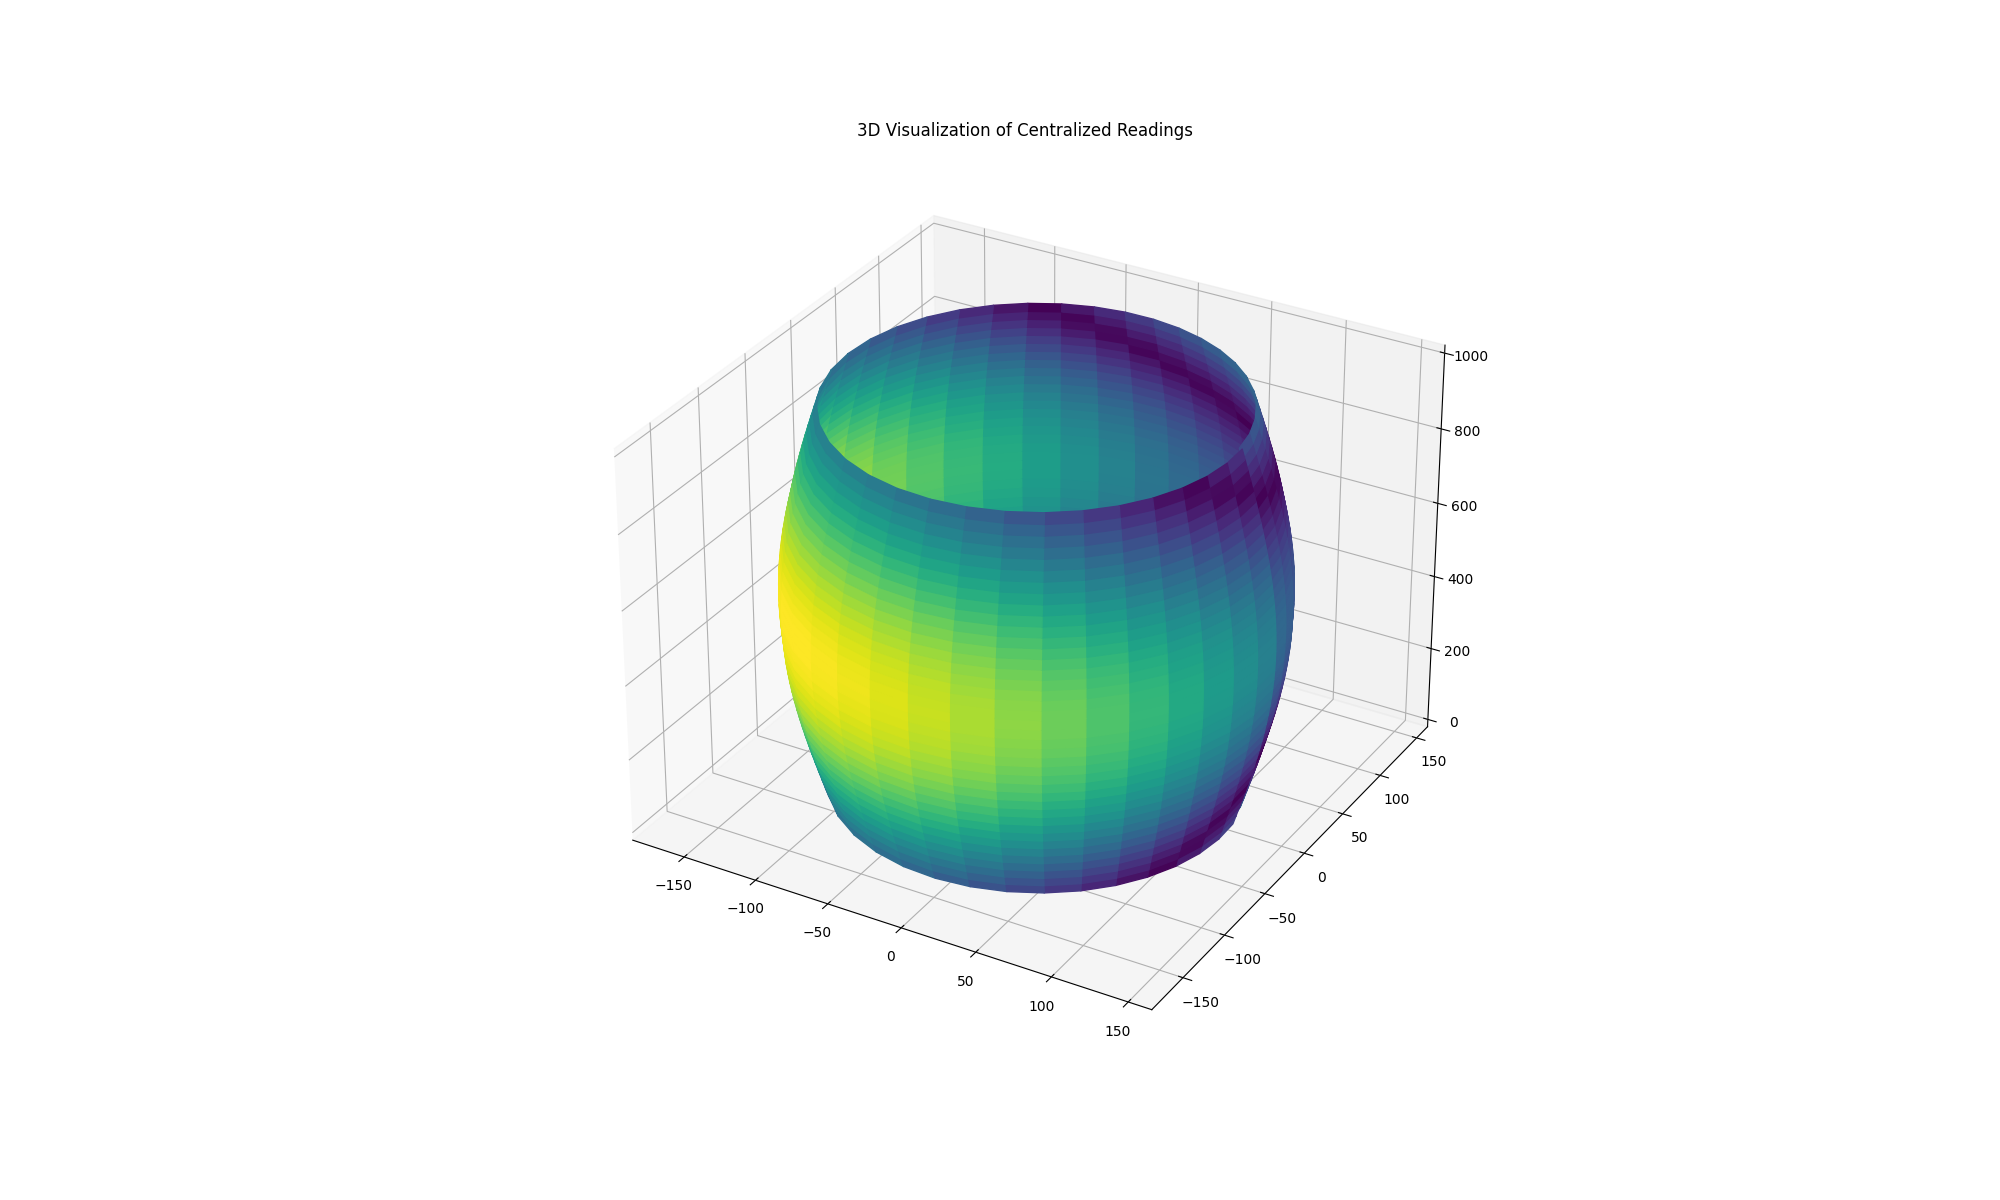
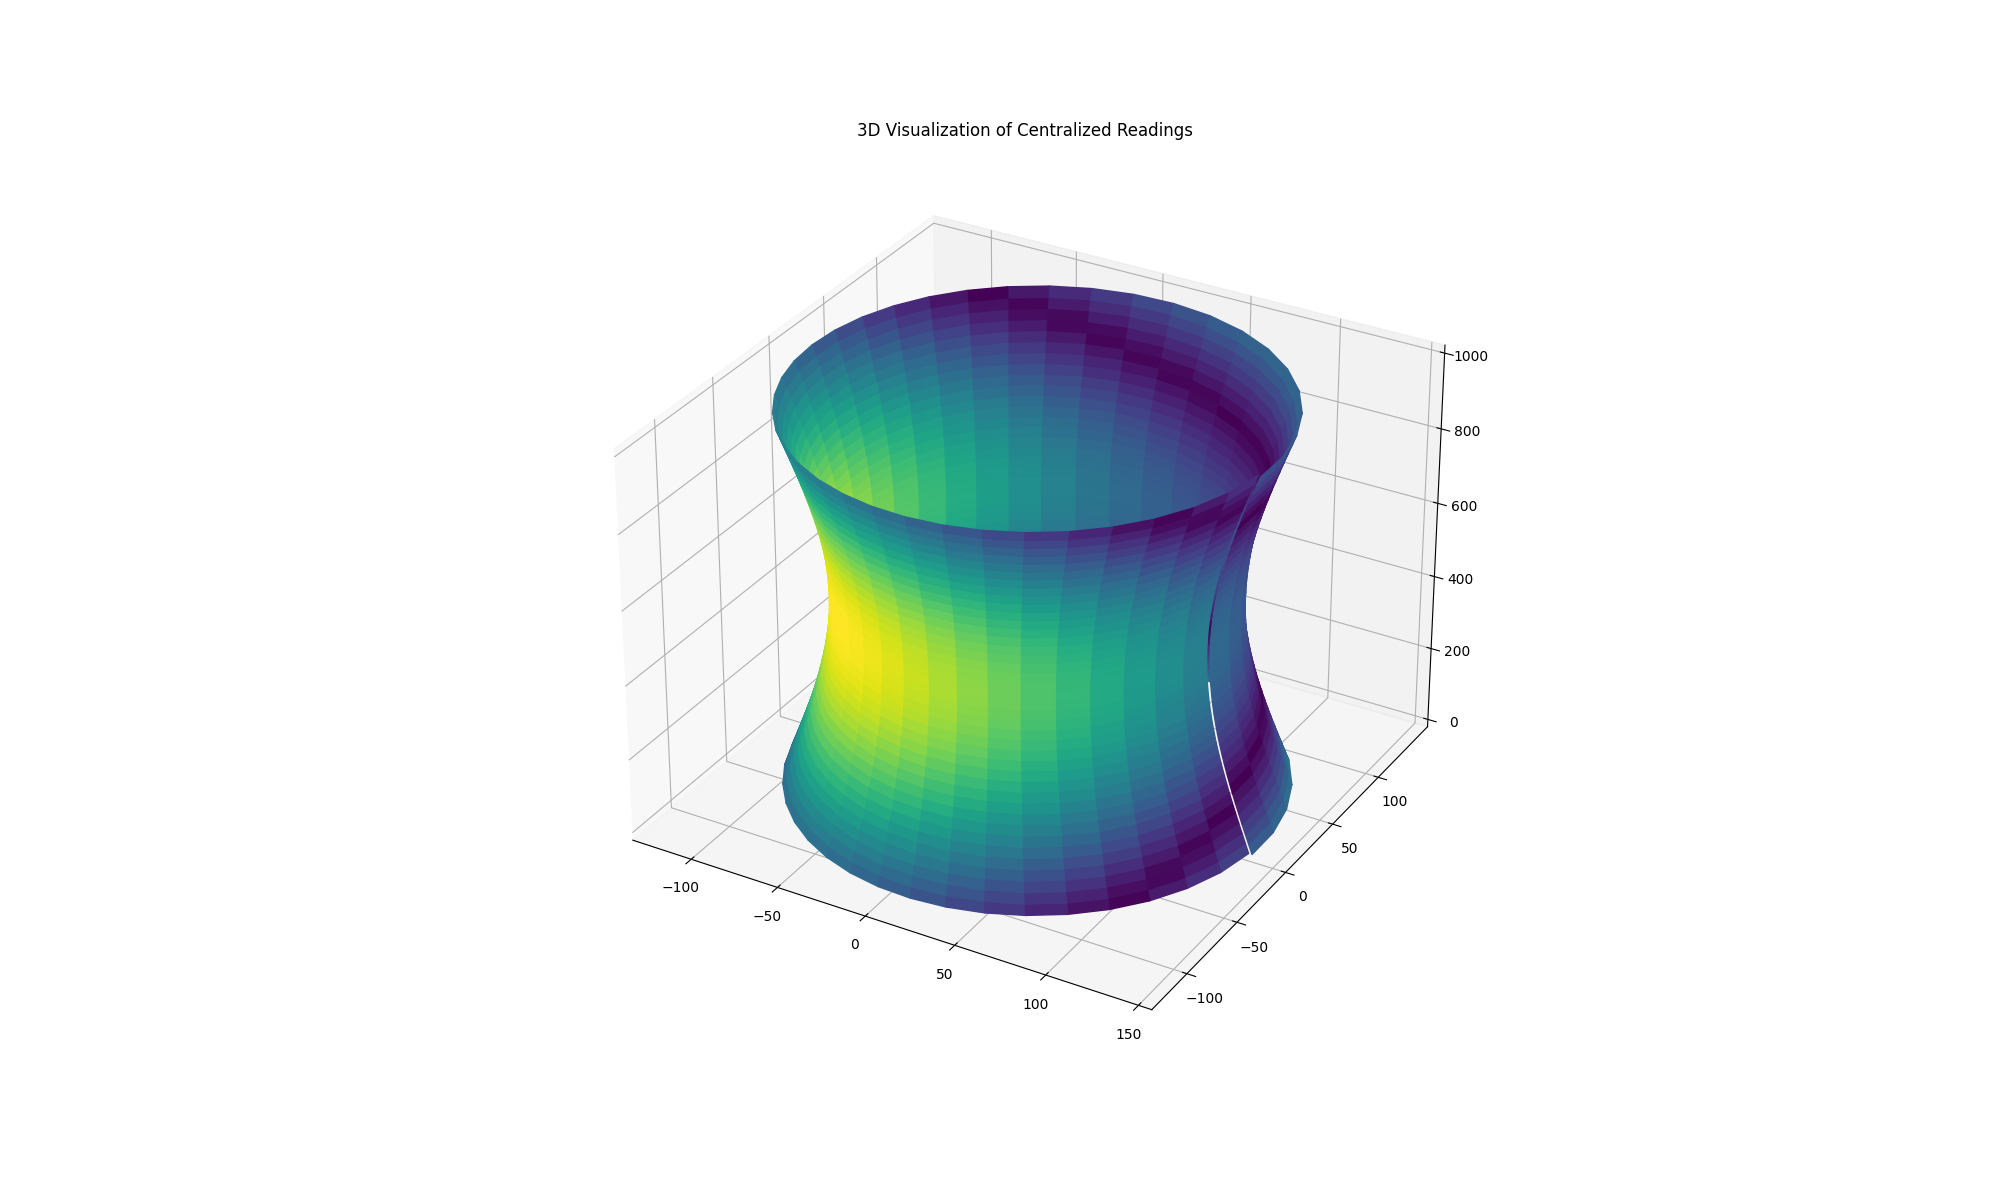
checkpoint

Changed region(s): [[0.341, 0.2158, 0.682, 0.8017], [0.682, 0.6475, 0.713, 0.6783]]

diff --git a/mit.cpp b/mit.cpp
@@ -101,26 +101,32 @@ void mit::load_readings(string filename)
 
 point mit::calculate_offset_vector_of_sample(const int depth)
 {
-    point result_offset_vector{0, 0};
-    double max_distance = 0;
-    double min_distance = 1000000000;
+    point resultant_offset_vector{0, 0};
     for (size_t finger = 0; finger < readings[depth].size(); finger++)
     {
         double cos_value = cos_values[finger];
         double sin_value = sin_values[finger];
 
-        // Get corresponding cos and sin_value of the finger on the other side of the pipe
-        // so 180 degrees out of phase
-        double cos_value_opposite = cos_values[(finger + no_of_fingers / 2) % no_of_fingers];
-        double sin_value_opposite = sin_values[(finger + no_of_fingers / 2) % no_of_fingers];
+        size_t finger_opposite = (finger + no_of_fingers / 2) % no_of_fingers;
+        double cos_value_opposite = cos_values[finger_opposite];
+        double sin_value_opposite = sin_values[finger_opposite];
 
-        cout << "cos_value: " << cos_value << endl;
-        cout << "cos_value_opposite: " << cos_value_opposite << endl;
-        cout << "sin_value: " << sin_value << endl;
-        cout << "sin_value_opposite: " << sin_value_opposite << endl;
+        // Calculate vector from contact point to tool
+        point finger_vector{0, 0};
+        finger_vector.x = -1 * cos_value * readings[depth][finger].distance;
+        finger_vector.y = -1 * sin_value * readings[depth][finger].distance;
+
+        // Calculate vector from oppposite contact point to tool
+        point opposite_finger_vector{0, 0};
+        opposite_finger_vector.x = -1 * -cos_value_opposite * readings[depth][finger_opposite].distance;
+        opposite_finger_vector.y = -1 * -sin_value_opposite * readings[depth][finger_opposite].distance;
+
+        // Sum of vectors divided by 2 is the offset vector so add this to the resultant vector
+        resultant_offset_vector.x += (finger_vector.x + opposite_finger_vector.x) / 2.0;
+        resultant_offset_vector.y += (finger_vector.y + opposite_finger_vector.y) / 2.0;
     }
 
-    return result_offset_vector;
+    return resultant_offset_vector;
 }
 
 void mit::centralize_readings(const point offset_vector)
@@ -132,7 +138,6 @@ void mit::centralize_readings(const point offset_vector)
     {
         for (size_t finger = 0; finger < readings[0].size(); finger++)
         {
-
             // Expected contact point w.r.t. pipe center
             point expected_contact_point_from_center{0, 0};
             expected_contact_point_from_center.x = cos_values[finger] * pipe_radius;
@@ -149,7 +154,7 @@ void mit::centralize_readings(const point offset_vector)
             double difference = reading_distance_from_tool_center - expected_distance_from_pipe_center;
 
             // Update reading
-            readings[depth][finger].centralized_distance = expected_distance_from_pipe_center + difference;
+            readings[depth][finger].centralized_distance = expected_distance_from_pipe_center - difference;
             readings[depth][finger].is_centralized = true;
         }
     }
